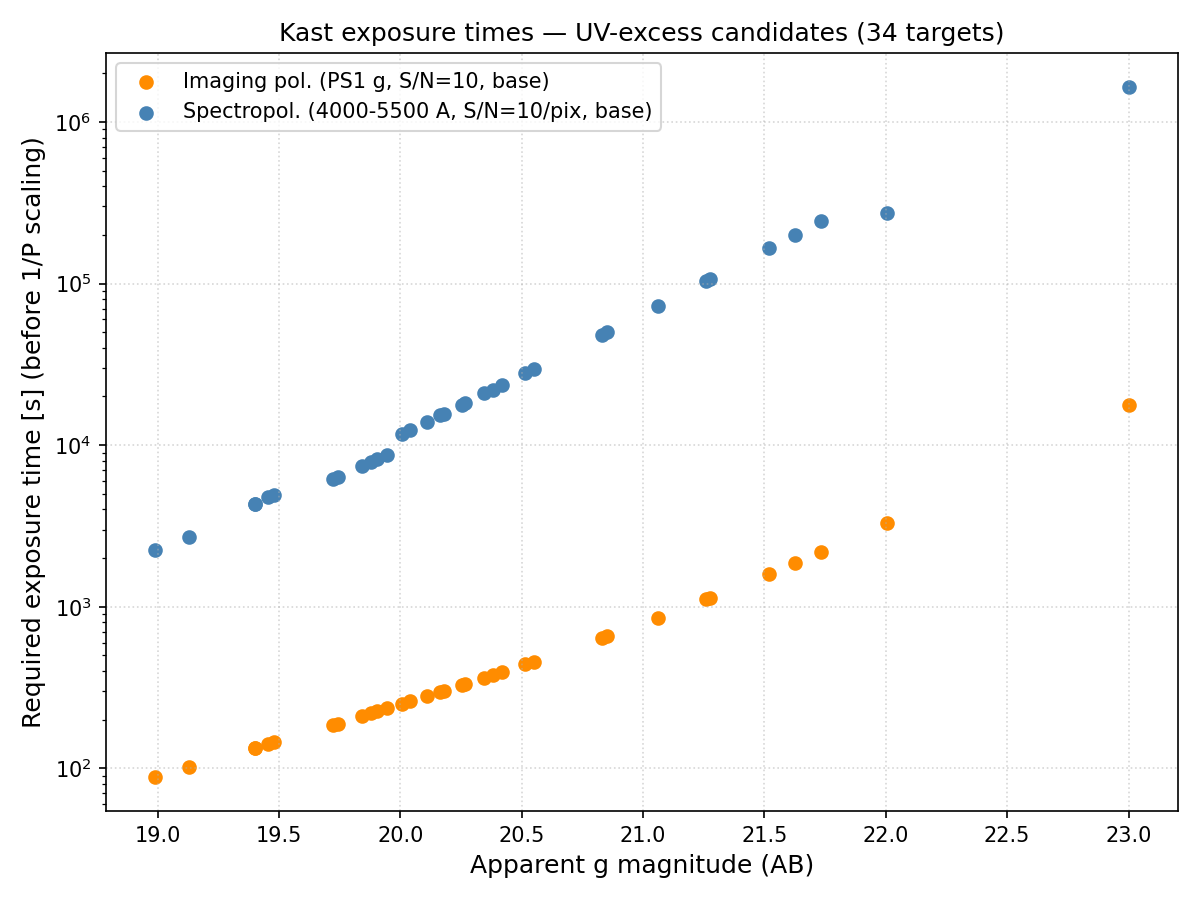
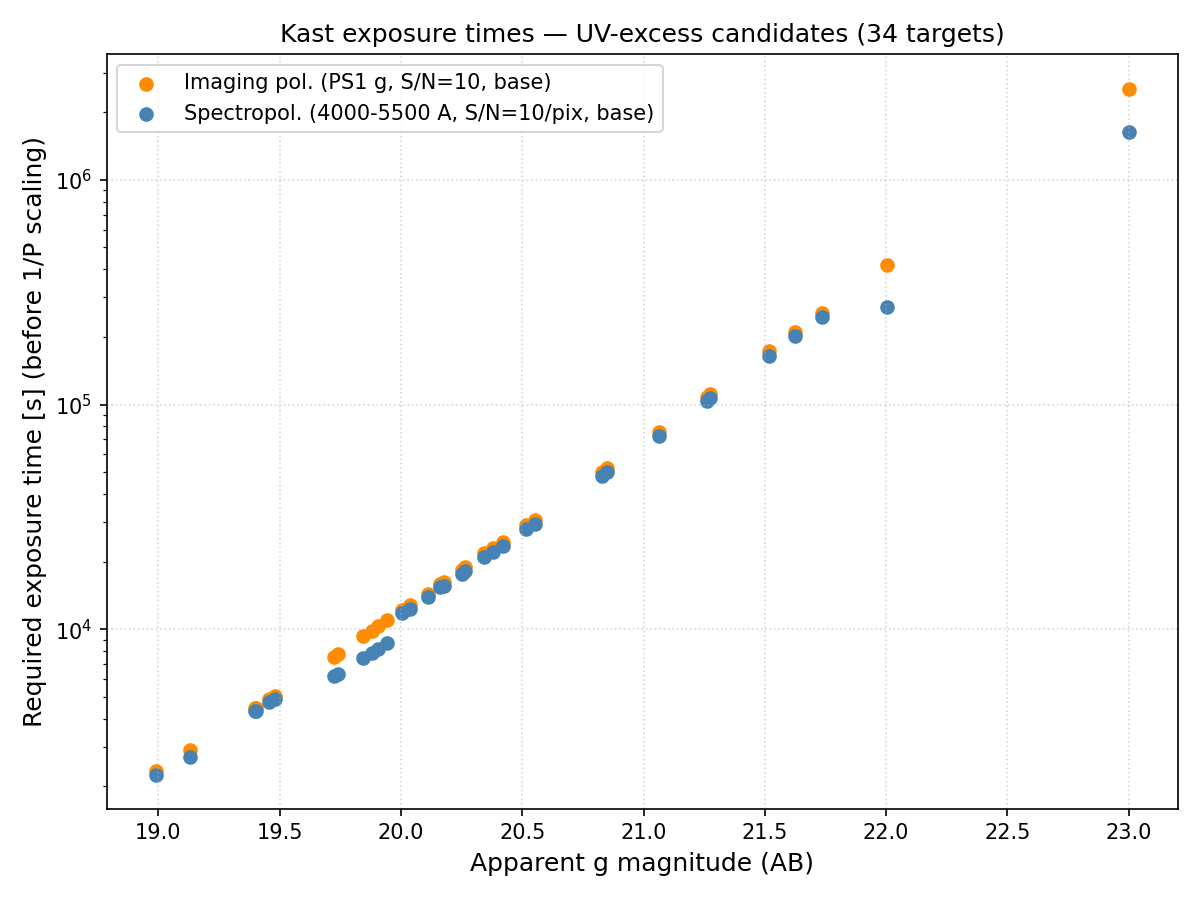
Fix imaging-polarimetry exposure math; widen polarization sensitivity to 1-10%
filter_band_rates() didn't match the reference methodology (K. Leighly's
notes + the synphot notebook in Downloads/Exposure Time Calc/): it should
use a throughput-weighted mean (not sum) with an unsquared noise term,
matching synphot's Observation.effstim() convention, rather than a squared
weighting plus a fabricated Poisson-variance correction. Verified against
the reference notebook's own logged S/N output. Imaging exposure times were
previously underestimated by roughly 20-40x.

Also widened pol_fractions from 1-4% to 1-10% (typical hoped-for range per
advisor), updating the hardcoded P=4% labels/columns in make_obs_plan_pdf.py
that don't derive automatically from config. Regenerated kast_obs_plan.csv
and the PNG/PDF figures from both changes.

diff --git a/UV_Leakage_Geometry/scripts/obs/kast_etc.py b/UV_Leakage_Geometry/scripts/obs/kast_etc.py
@@ -1,6 +1,7 @@
 """S/N math and ETC-file parsing for Lick Kast polarimetry planning.
 
-Methodology (K. Leighly notes, 2026-07, and Chromey "To Measure the Sky"
+Methodology (K. Leighly notes + E. Glikman's synphot notebook, both in
+Downloads/Exposure Time Calc/, 2026-07, and Chromey "To Measure the Sky"
 sec. 9.5.4):
   - The observer runs each target through the Kast web ETC by hand
     (https://etc.ucolick.org/web_s2n/kast) with the settings in
@@ -10,9 +11,15 @@ sec. 9.5.4):
   - The downloaded CSV has columns wave,obj,sky,noise,s2n: per-pixel object
     counts, sky counts, read noise, and S/N versus wavelength [Angstroms]
     for the exposure time typed into the form.
-  - Spectropolarimetry uses the per-pixel S/N directly; imaging polarimetry
-    integrates the counts over a filter profile (synphot) and applies the
-    CCD equation  S/N = Nqso / sqrt(Nqso + Nsky + Noise).
+  - Spectropolarimetry uses the per-pixel values directly at the ETC's own
+    convention, S/N = Nqso / sqrt(Nqso + Nsky + Noise^2) (verified against
+    the ETC's own reported s2n column to ~2%).
+  - Imaging polarimetry instead runs obj/sky/noise through the filter
+    bandpass the way synphot's Observation.effstim() does for a PHOTLAM
+    source: a throughput-weighted *mean*, not a sum. The reference notebook
+    then applies the plain CCD equation S/N = Nqso / sqrt(Nqso+Nsky+Noise)
+    with the noise term unsquared, taken as-is from the reference code even
+    though it differs from the per-pixel convention above.
   - Counts scale linearly with exposure time while read noise does not, so
     one ETC run per target suffices; the time to reach a target S/N is the
     exact quadratic solution (equivalent to Chromey eq. 9.77).
@@ -67,16 +74,19 @@ def snr_at_time(obj_rate, sky_rate, rn, t):
     return signal / np.sqrt(signal + sky_rate * t + rn**2)
 
 
-def required_exptime(target_snr, obj_rate, sky_rate, rn_sq):
+def required_exptime(target_snr, obj_rate, sky_rate, noise_const):
     """Exposure time [s] at which the CCD-equation S/N reaches target_snr.
 
-    Solves S^2 (O t + K t + R^2) = (O t)^2 for t — the same quadratic as
-    Chromey eq. 9.77 with A = O^2/S^2, B = O + K, C = R^2.
+    Solves S^2 (O t + K t + C) = (O t)^2 for t — the same quadratic as
+    Chromey eq. 9.77 with A = O^2/S^2, B = O + K, C = noise_const. C is
+    R^2 for the per-pixel spectropol convention, or the unsquared
+    filter-weighted noise mean for the imaging convention — see module
+    docstring.
     """
     s2 = target_snr**2
     a = obj_rate**2
     b = -s2 * (obj_rate + sky_rate)
-    c = -s2 * rn_sq
+    c = -s2 * noise_const
     return (-b + np.sqrt(b**2 - 4.0 * a * c)) / (2.0 * a)
 
 
@@ -90,30 +100,37 @@ def load_filter(filter_path):
 
 
 def filter_band_rates(etc, filter_wave, filter_thru, exptime_s):
-    """Filter-weighted count rates for the imaging-polarimetry CCD equation.
+    """Filter-weighted rates for the imaging-polarimetry CCD equation.
 
-    Weights the ETC per-pixel object/sky counts by the filter throughput
-    interpolated onto the ETC wavelength grid. Returns (obj_rate, sky_rate,
-    rn_sq) where the rates are counts/s summed over the band and rn_sq is the
-    throughput-weighted summed squared read noise, i.e. the variance of the
-    weighted sum is obj_rate*t + sky_rate*t + rn_sq.
+    Reproduces the reference notebook (Downloads/Exposure Time Calc/
+    exposure_calc.ipynb): the ETC's per-pixel obj/sky/noise columns are each
+    passed through the filter bandpass as a synphot Observation.effstim()
+    would for a PHOTLAM source — a throughput-weighted *mean* over the ETC
+    wavelength grid, not a sum. Verified against the notebook's own logged
+    effstim/S/N output (obj=251.0, sky=258.8, noise=12.56 -> S/N=10.98 for
+    its example target) to within the expected difference from using a
+    different filter curve.
+
+    Returns (obj_rate, sky_rate, noise_const) for use with required_exptime,
+    where noise_const is the unsquared throughput-weighted noise mean (see
+    module docstring — this aggregate convention differs from the per-pixel
+    one in spectropol_pixel_rates, but is taken as-is from the reference).
     """
     thru = np.interp(etc["wave"], filter_wave, filter_thru, left=0.0, right=0.0)
-    obj_rate = np.sum(thru * etc["obj"]) / exptime_s
-    sky_rate = np.sum(thru**2 * etc["sky"]) / exptime_s
-    # Poisson variance of a weighted sum carries w^2; fold the object's extra
-    # (thru^2 - thru) variance term into the sky rate so the CCD-equation
-    # solver (which assumes var = signal + sky*t + rn^2) stays exact.
-    sky_rate += np.sum((thru**2 - thru) * etc["obj"]) / exptime_s
-    rn_sq = np.sum((thru * etc["rn"]) ** 2)
-    return obj_rate, sky_rate, rn_sq
+    weight = np.sum(thru)
+    obj_rate = np.sum(thru * etc["obj"]) / weight / exptime_s
+    sky_rate = np.sum(thru * etc["sky"]) / weight / exptime_s
+    noise_const = np.sum(thru * etc["rn"]) / weight
+    return obj_rate, sky_rate, noise_const
 
 
 def spectropol_pixel_rates(etc, window_aa, exptime_s):
     """Median per-pixel count rates within the spectropolarimetry window.
 
-    Returns (obj_rate, sky_rate, rn_sq) for the representative (median-S/N)
-    pixel inside window_aa, for use with required_exptime.
+    Returns (obj_rate, sky_rate, noise_const) for the representative
+    (median-S/N) pixel inside window_aa, for use with required_exptime.
+    noise_const here is R^2 (squared read noise), matching the ETC's own
+    per-pixel convention — see module docstring.
     """
     lo, hi = window_aa
     sel = (etc["wave"] >= lo) & (etc["wave"] <= hi)

diff --git a/UV_Leakage_Geometry/scripts/obs/make_obs_plan_pdf.py b/UV_Leakage_Geometry/scripts/obs/make_obs_plan_pdf.py
@@ -65,13 +65,13 @@ Methodology (K. Leighly notes 2026-07; Chromey, "To Measure the Sky", sec. 9.5.4
       CCD equation (Chromey eq. 9.77). Required S/N = {obs['target_snr']:g} (advisor: "ideally
       >10"); the {obs['snr_floor']:g} floor ("definitely >5") is tabulated in kast_obs_plan.csv.
   5.  Polarimetry penalty: to be sensitive to polarization fraction P, the normal
-      exposure time is multiplied by 1/P (rough rule per notes) — x25 for P = 4%,
+      exposure time is multiplied by 1/P (rough rule per notes) — x10 for P = 10%,
       x100 for P = 1%. Note P is NOT the scattered fraction: scattering with
       unfavorable geometry can cancel to zero net polarization.
 
 Sample summary at S/N = {snr:g}, imaging polarimetry (PS1 g)
 
-      P = 4%:  {within('t_img_snr10_p4_s', 1)} targets within 1 h,  {within('t_img_snr10_p4_s', 2)} within 2 h,  {within('t_img_snr10_p4_s', 4)} within 4 h
+      P = 10%: {within('t_img_snr10_p10_s', 1)} targets within 1 h,  {within('t_img_snr10_p10_s', 2)} within 2 h,  {within('t_img_snr10_p10_s', 4)} within 4 h
       P = 1%:  {within('t_img_snr10_p1_s', 2)} targets within 2 h,  {within('t_img_snr10_p1_s', 4)} within 4 h,  {within('t_img_snr10_p1_s', 8)} within 8 h
 
 Spectropolarimetry at S/N = {snr:g}/pixel is feasible unscaled for the brightest
@@ -95,8 +95,8 @@ def figure_page(pdf, df, obs):
     fig.subplots_adjust(top=0.7, bottom=0.32)
     ax.scatter(ok["gmag_AB"], ok["t_img_snr10_s"], color="darkorange",
                label=f"Imaging pol. base (PS1 g, S/N={snr:g})")
-    ax.scatter(ok["gmag_AB"], ok["t_img_snr10_p4_s"], color="darkorange",
-               marker="^", label="Imaging pol., P=4% (x25)")
+    ax.scatter(ok["gmag_AB"], ok["t_img_snr10_p10_s"], color="darkorange",
+               marker="^", label="Imaging pol., P=10% (x10)")
     ax.scatter(ok["gmag_AB"], ok["t_spec_snr10_s"], color="steelblue",
                label=f"Spectropol. base (S/N={snr:g}/pix)")
     for hours, txt in [(1, "1 h"), (4, "4 h")]:
@@ -117,13 +117,13 @@ def table_page(pdf, df, obs):
     snr = obs["target_snr"]
     ok = df.dropna(subset=["t_img_snr10_s"]).sort_values("gmag_AB")
     cols = ["Target", "g (AB)", "ETC mag",
-            "Img base", "Img P=4%", "Img P=1%", "N exp (4%)",
-            "Spec base", "Spec P=4%"]
+            "Img base", "Img P=10%", "Img P=1%", "N exp (10%)",
+            "Spec base", "Spec P=10%"]
     cells = [[
         r["target"], f"{r['gmag_AB']:.2f}", f"{r['mag_to_enter']:.2f}",
-        fmt_time(r["t_img_snr10_s"]), fmt_time(r["t_img_snr10_p4_s"]),
-        fmt_time(r["t_img_snr10_p1_s"]), f"{r['n_exp_img_snr10_p4']:.0f}",
-        fmt_time(r["t_spec_snr10_s"]), fmt_time(r["t_spec_snr10_p4_s"]),
+        fmt_time(r["t_img_snr10_s"]), fmt_time(r["t_img_snr10_p10_s"]),
+        fmt_time(r["t_img_snr10_p1_s"]), f"{r['n_exp_img_snr10_p10']:.0f}",
+        fmt_time(r["t_spec_snr10_s"]), fmt_time(r["t_spec_snr10_p10_s"]),
     ] for _, r in ok.iterrows()]
 
     fig, ax = plt.subplots(figsize=PAGE)

diff --git a/UV_Leakage_Geometry/CLAUDE.md b/UV_Leakage_Geometry/CLAUDE.md
@@ -53,13 +53,14 @@ the UV leakage fraction as a function of E(B-V). A follow-up polarimetry campaig
 - `data/matched/` — Current canonical crossmatched outputs
 - `data/archive/` — Old iterations; kept for reference, not canonical
 - `data/processed/` — SED outputs and UV-excess candidate lists (future)
-- `scripts/` — Reference .py scripts; notebooks are the primary working environment
+- `scripts/` — Primary working code; changes and updates are normally made here. Takes precedence over the notebooks.
 - `filters/` — Filter transmission curves (.dat) from SVO Filter Profile Service
 - `templates/` — Intrinsic QSO spectral template (qso_template.txt)
 - `figures/` — Output plots
 
 ## Conventions
 
+- Scripts in `scripts/` are more important than the notebooks: develop and update in the scripts; notebooks hold fully completed code only (policy set 2026-07-12)
 - Notebooks are numbered and must be run in order
 - Raw data in data/raw/ is immutable — never overwrite or modify
 - data/archive/ files are kept for reproducibility but not used in current analysis